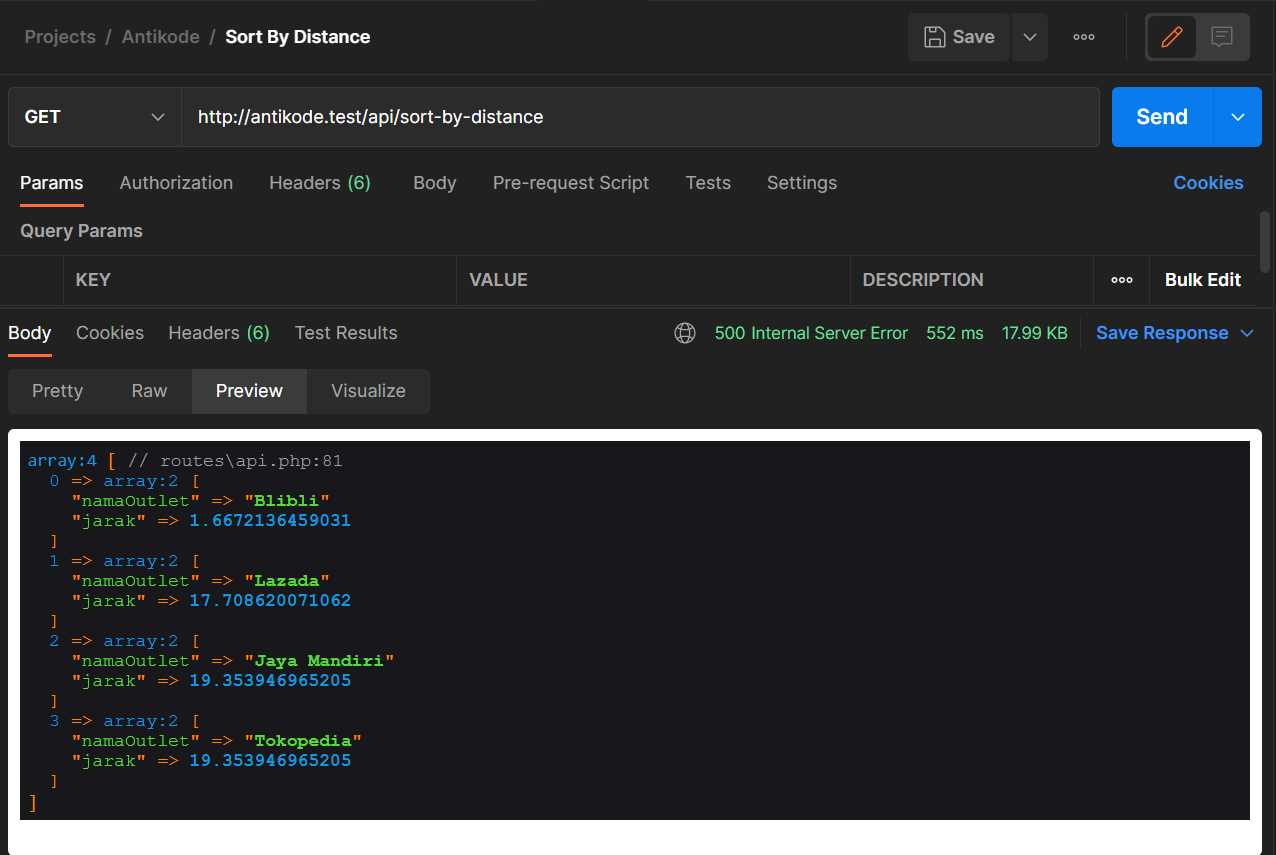
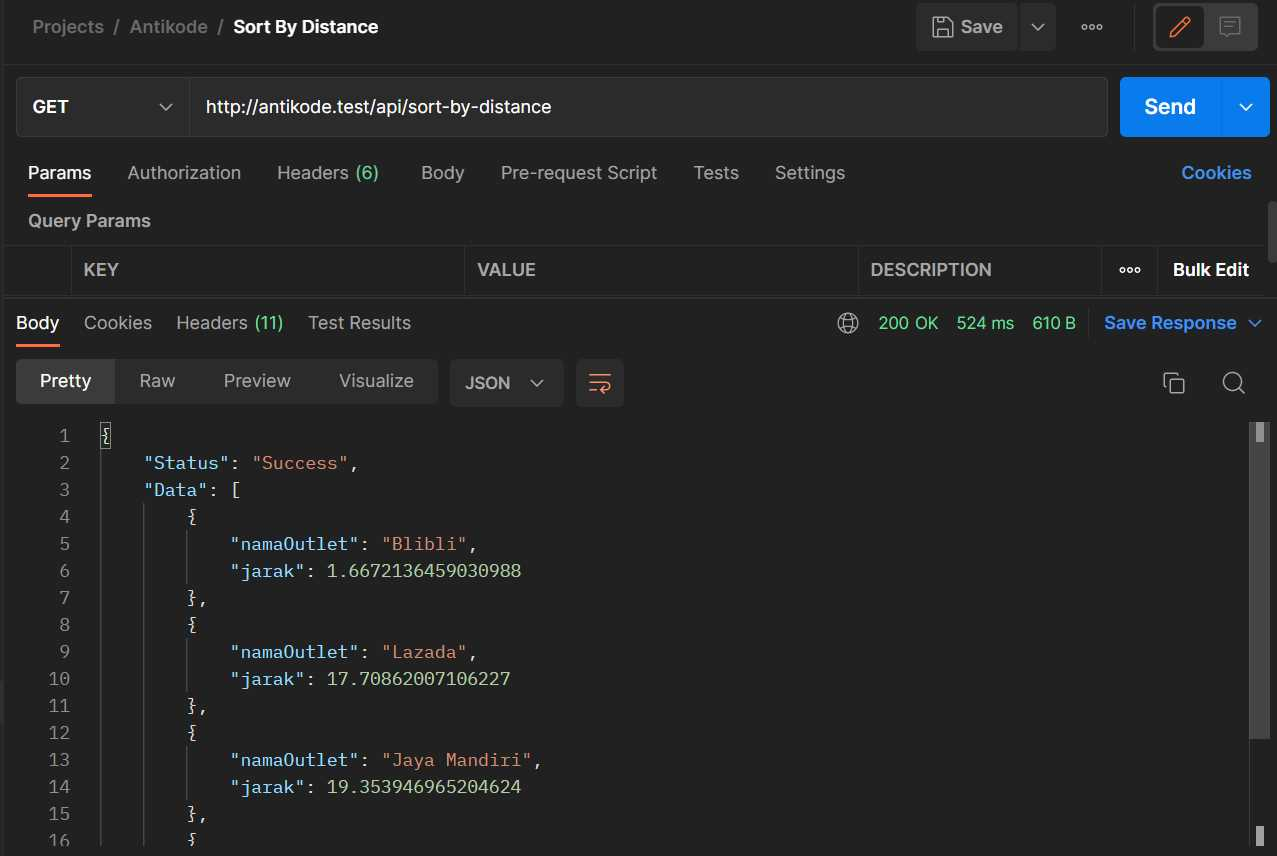
Update Sort By Distance and Image

diff --git a/routes/api.php b/routes/api.php
@@ -45,39 +45,44 @@ Route::group(['prefix' => 'brands',  'as' => 'brand.'], function(){
 });
 
 Route::get('sort-by-distance',function() {
-    $outlets = outlet::all();
+    try {
+        $outlets = outlet::all();
 
-    $latMonas = -6.172043;
-    $lngMonas = 106.826327;
+        $latMonas = -6.172043;
+        $lngMonas = 106.826327;
 
-    $arrayOutletDistance = [];
+        $arrayOutletDistance = [];
 
-    foreach($outlets as  $outlet){
-        $outletName = $outlet->name;
-        $theta = $lngMonas - $outlet->longitude;
-        $miles = (sin(deg2rad($latMonas)) * sin(deg2rad($outlet->latitude))) + (cos(deg2rad($latMonas)) * cos(deg2rad($outlet->latitude)) * cos(deg2rad($theta)));
-        $miles = acos($miles);
-        $miles = rad2deg($miles);
-        $miles = $miles * 60 * 1.1515;
-        $feet  = $miles * 5280;
-        // $yards = $feet / 3;
-        $kilometers = $miles * 1.609344;
-        // $meters = $kilometers * 1000;
-        array_push($arrayOutletDistance,['namaOutlet' => $outletName,'jarak' => $kilometers]);
+        foreach($outlets as  $outlet){
+            $outletName = $outlet->name;
+            $theta = $lngMonas - $outlet->longitude;
+            $miles = (sin(deg2rad($latMonas)) * sin(deg2rad($outlet->latitude))) + (cos(deg2rad($latMonas)) * cos(deg2rad($outlet->latitude)) * cos(deg2rad($theta)));
+            $miles = acos($miles);
+            $miles = rad2deg($miles);
+            $miles = $miles * 60 * 1.1515;
+            $feet  = $miles * 5280;
+            // $yards = $feet / 3;
+            $kilometers = $miles * 1.609344;
+            // $meters = $kilometers * 1000;
+            array_push($arrayOutletDistance,['namaOutlet' => $outletName,'jarak' => $kilometers]);
+        }
+
+        $sortOutletDistance = array();
+
+        foreach($arrayOutletDistance as $key => $item) {
+            $sortOutletDistance[$key] = $item['jarak'];   
+        }
+
+        array_multisort($sortOutletDistance, SORT_ASC, $arrayOutletDistance);
+
+        return response()->json([
+            'Status' => 'Success',
+            'Data' => $arrayOutletDistance
+        ],200);
+    } catch(\Exception $e) {
+        return response()->json([
+            'Status' => 'Failed',
+            'Message' => 'Failed Log Data '.$e->getMessage()
+        ],400);
     }
-
-    $sortOutletDistance = array();
-
-    foreach($arrayOutletDistance as $key => $item) {
-        $sortOutletDistance[$key] = $item['jarak'];   
-        // echo sort($outlet['jarak']);
-        // foreach($outlet as $distance) {
-        //     // echo sort($distance);
-        //     echo $distance;
-        // }
-    }
-
-    array_multisort($sortOutletDistance, SORT_ASC, $arrayOutletDistance);
-    dd($arrayOutletDistance);
-    // return compact('arrayOutletDistance');
 });
